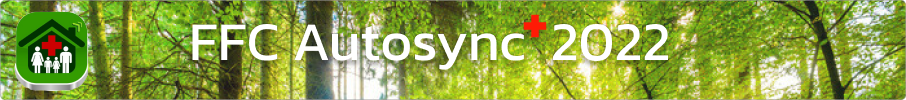
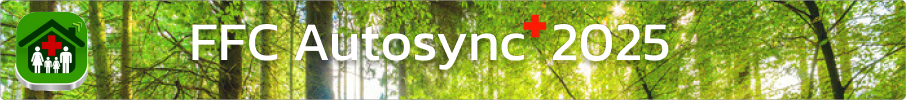
fix error id_card is idcard

Changed region(s): [[0.7108, 0.24, 0.7417, 0.63]]

diff --git a/src/Service/Service.java b/src/Service/Service.java
@@ -41,7 +41,7 @@ public class Service {
     public static String mJHCISsdbPath = "./FFC/Db_tmp/mJHCIS.sdb";
     public static String uJHCISPath = "./FFC/Db_tmp/uJHCIS.db";
     public static String ffcInformationPath = "./FFC/FFC_Information.db";
-    public static String autosyncVersion = "3.0.2022.06.13";
+    public static String autosyncVersion = "3.4.2025.08.07";
     public static ConvertSQLiteToSQL convert;
     public static ConvertSQLiteToSQL.UpdateCountSet updateCount;
     public static FileBehavior fileBehavior = new FileBehavior();

diff --git a/src/AdjustDatabase/AdjustDatabaseSql.java b/src/AdjustDatabase/AdjustDatabaseSql.java
@@ -453,7 +453,7 @@ public class AdjustDatabaseSql {
 // 4. ffc_sf_drinking_info
     private String create_ffc_sf_drinking_info = "CREATE TABLE `ffc_sf_drinking_info` ("
             + "`id` int(11) NOT NULL auto_increment,"
-            + "`id_card` varchar(13) NOT NULL,"
+            + "`idcard` varchar(13) NOT NULL,"
             + "`person_info_id` varchar(100) NOT NULL,"
             + "`drinking` varchar(10) NOT NULL,"
             + "`drinking_frequency` varchar(10) NOT NULL,"
